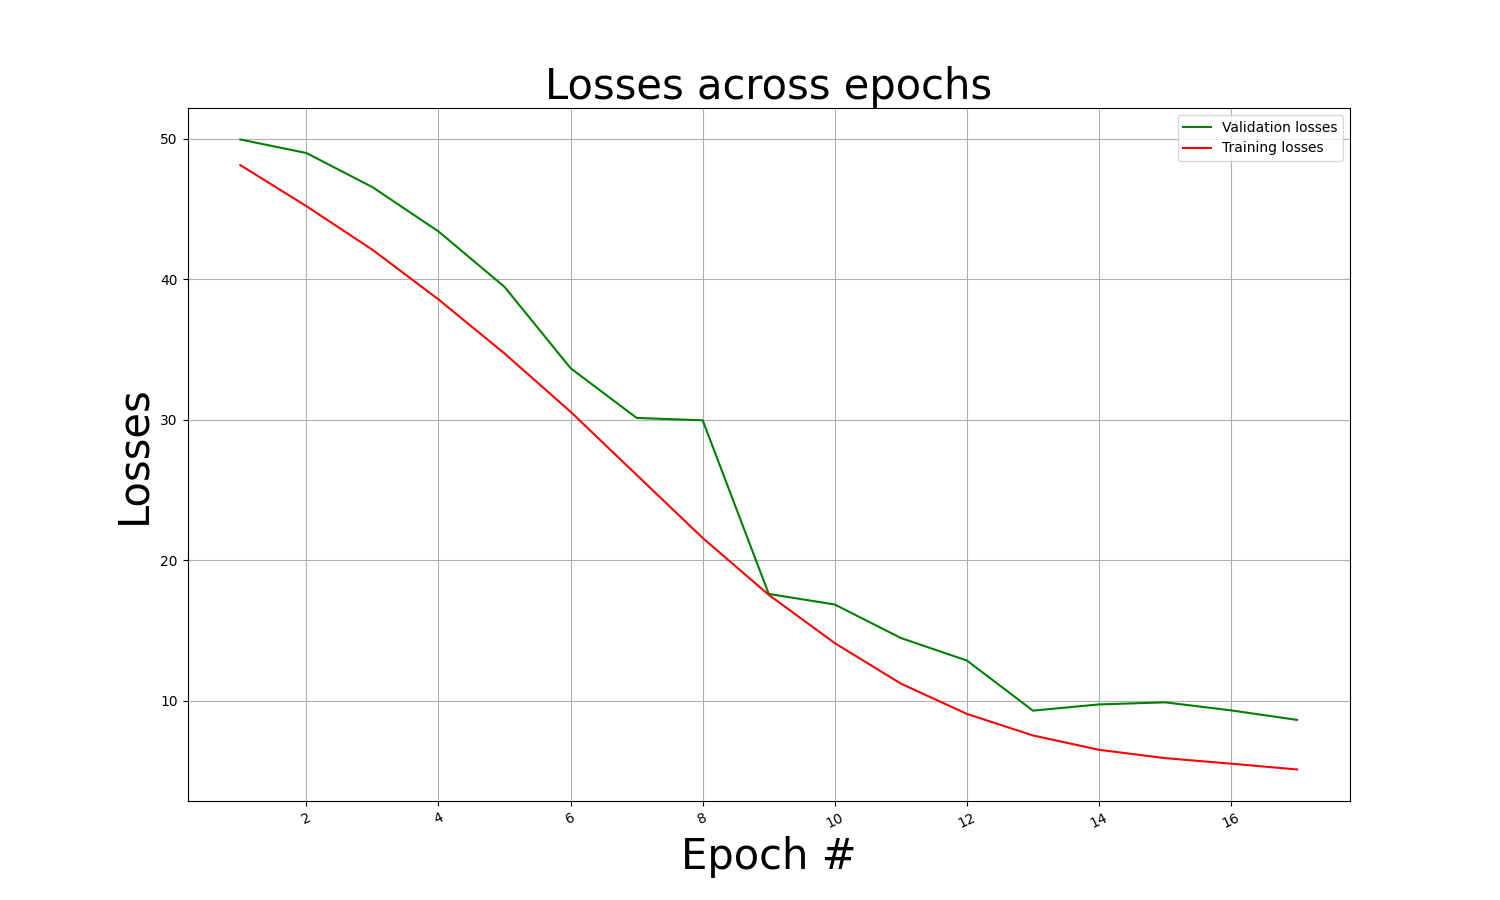
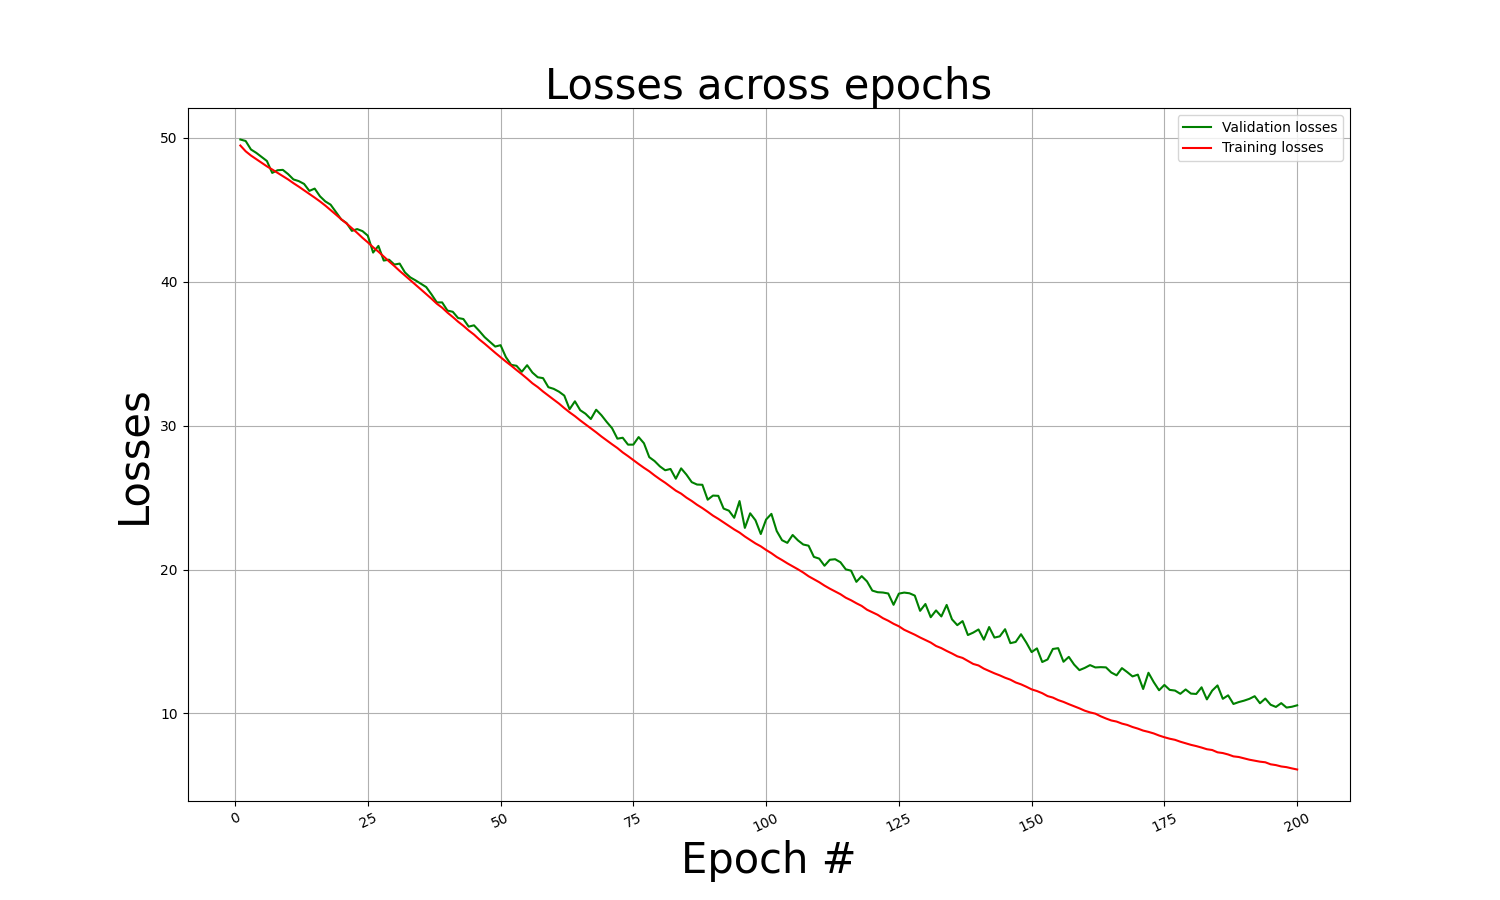
There seems to be an issue with how the images are fed to the model during inferencee. Implemented manual fix for now but working on improving it

diff --git a/scripts/mpc_trials/MultiAgentModel.py b/scripts/mpc_trials/MultiAgentModel.py
@@ -61,8 +61,8 @@ class MultiAgentMpc():
         self.frequency = 10
 
         # Gelsight devices
-        self.dev1 = gsdevice.Camera("Gelsight Mini", 2)
-        self.dev2 = gsdevice.Camera("Gelsight Mini", 4)
+        self.dev1 = gsdevice.Camera("Gelsight Mini", 0)
+        self.dev2 = gsdevice.Camera("Gelsight Mini", 2)
         self.dev1.connect()
         self.dev2.connect()
         # Warm up camera:
@@ -92,7 +92,7 @@ class MultiAgentMpc():
         # _ = self.mpc_layer(_, _, dummy_mpc_var, dummy_mpc_var, dummy_mpc_var, dummy_mpc_var)
 
         # Load weights
-        model_path = os.path.join(os.getcwd(), "v1_checkpoint_epoch_15.pth")
+        model_path = os.path.join(os.getcwd(), "v3_checkpoint_epoch_200.pth")
         checkpoint = torch.load(model_path, map_location=torch.device(self.device), weights_only=True)
         self.nn_encoder.load_state_dict(checkpoint['cnn_encoder_state_dict'])
         self.mpc_layer.load_state_dict(checkpoint['mpc_layer_state_dict'])
@@ -111,6 +111,7 @@ class MultiAgentMpc():
         """
         cv_image_1 = self.dev1.get_raw_image()
         cv_image_2 = self.dev2.get_raw_image()
+        
         if cv_image_1 is None and cv_image_2 is None:
             raise ValueError("Both images weren't obtained")
         if cv_image_1 is None:
@@ -120,9 +121,14 @@ class MultiAgentMpc():
 
         pil_image_1 = Image.fromarray(cv_image_1).convert("RGB")
         pil_image_2 = Image.fromarray(cv_image_2).convert("RGB")
+        pil_image_1.save("image_1.jpg")
+        pil_image_2.save("image_2.jpg")
 
-        self.current_image_1 = self.transform(pil_image_1).to(self.device)
-        self.current_image_2 = self.transform(pil_image_2).to(self.device)
+        pil_image_1 = Image.open("image_1.jpg")#.convert("RGB")
+        pil_image_2 = Image.open("image_2.jpg")#.convert("RGB")
+        # raise KeyError
+        self.current_image_1 = self.transform(pil_image_1).unsqueeze(0).to(self.device)
+        self.current_image_2 = self.transform(pil_image_2).unsqueeze(0).to(self.device)
 
         return self.current_image_1, self.current_image_2
     
@@ -161,15 +167,11 @@ class MultiAgentMpc():
         """
         with torch.cuda.stream(self.stream), torch.no_grad():
             # Prepare for cnn inference
-            image_1 = image_1.unsqueeze(0).to(self.device)
-            image_2 = image_2.unsqueeze(0).to(self.device)
             #start = time.time()
             output_1 = self.nn_encoder(image_1)#.to(self.device) 
             output_2 = self.nn_encoder(image_2)#.to(self.device)
             #end = time.time()
             #print("cnn encoder inference time: ", end - start)
-            print("encodings 1 size: ", output_1.size())
-            print("encodings 2 size: ", output_2.size())
 
             # Prepare for mpc pass
             posi_1 = torch.tensor([posi_1]).to(self.device)

diff --git a/scripts/mpc_trials/runtime_test.py b/scripts/mpc_trials/runtime_test.py
@@ -31,7 +31,7 @@ nn_encoder = ResCNNEncoder(hidden1=CNN_hidden1, hidden2=CNN_hidden2, dropP=dropo
 mpc_layer = MPClayer(nHidden = CNN_embed_dim, eps = eps, nStep = nStep, del_t = del_t).to(device)
 
 # Load weights
-model_path = os.path.join("/home/leo/Documents/Tactile_Sensing_Raptor_Lab/scripts/multi_agent_src/v2_checkpoint_epoch_20.pth")
+model_path = os.path.join("/home/leo/Documents/Tactile_Sensing_Raptor_Lab/scripts/multi_agent_src/v3_checkpoint_epoch_200.pth")
 checkpoint = torch.load(model_path, map_location=device)
 nn_encoder.load_state_dict(checkpoint['cnn_encoder_state_dict'])
 mpc_layer.load_state_dict(checkpoint['mpc_layer_state_dict'])
@@ -40,20 +40,21 @@ mpc_layer.eval()
 print("Loaded model weights.")
 
 # Load images
-image_path_1 = "testing_images/sensor_1_wood.jpg"
-image_path_2 = "testing_images/sensor_2_wood.jpg"
+# 24.69, 24.61
+image_path_1 = "image_1.jpg"
+image_path_2 = "image_2.jpg"
 
-pil_image_1 = Image.open(image_path_1).convert("RGB")
-pil_image_2 = Image.open(image_path_2).convert("RGB")
+pil_image_1 = Image.open(image_path_1)#.convert("RGB")
+pil_image_2 = Image.open(image_path_2)#.convert("RGB")
 
 image_1 = transform(pil_image_1).unsqueeze(0).to(device)
 image_2 = transform(pil_image_2).unsqueeze(0).to(device)
 
 # Dummy gripper state
-posi_1 = torch.tensor([25.0]).to(device)
-vel_1 = torch.tensor([0.6]).to(device)
-posi_2 = torch.tensor([25.0]).to(device)
-vel_2 = torch.tensor([0.6]).to(device)
+posi_1 = torch.tensor([23.0131]).to(device)
+vel_1 = torch.tensor([2.6]).to(device)
+posi_2 = torch.tensor([23.3333]).to(device)
+vel_2 = torch.tensor([2.6]).to(device)
 
 # Run inference
 with torch.no_grad():

diff --git a/scripts/multi_agent_src/multi_agent_training.py b/scripts/multi_agent_src/multi_agent_training.py
@@ -16,9 +16,9 @@ res_size = 224
 dropout_p = 0.15
 
 # Training parameters
-epochs = 50
+epochs = 200
 batch_size = 256
-learning_rate = 1e-4
+learning_rate = 1e-5
 eps = 1e-4
 nStep = 15
 del_t = 1/10
@@ -490,7 +490,7 @@ optimizer = torch.optim.Adam(letac_params, lr=learning_rate, weight_decay=1e-4) 
 
 # Load checkpoint if exists
 start_epoch = 0
-checkpoint_path = 'v2_checkpoint_epoch_15.pth'
+checkpoint_path = 'v3_checkpoint_epoch_15.pth'
 if os.path.exists(checkpoint_path):
     checkpoint = torch.load(checkpoint_path)
     cnn_encoder.load_state_dict(checkpoint['cnn_encoder_state_dict'])
@@ -508,9 +508,9 @@ for epoch in range(start_epoch, epochs):
         training_loss = train([cnn_encoder, MPC_layer], device, train_loader, optimizer, epoch)
         writer = csv.writer(f)
         writer.writerow([epoch+1, valid_loss, training_loss])
-        # Save checkpoint every 5 epochs
-        if (epoch + 1) % 5 == 0:
-            checkpoint_path = f'./v2_checkpoint_epoch_{epoch+1}.pth'
+        # Save checkpoint every 20 epochs
+        if (epoch + 1) % 20 == 0:
+            checkpoint_path = f'./v3_checkpoint_epoch_{epoch+1}.pth'
             torch.save({
                 'cnn_encoder_state_dict': cnn_encoder.state_dict(),
                 'mpc_layer_state_dict': MPC_layer.state_dict(),

diff --git a/scripts/mpc_trials/multi_agent_functions.py b/scripts/mpc_trials/multi_agent_functions.py
@@ -103,7 +103,7 @@ class MPClayer(nn.Module):
         super(MPClayer, self).__init__()
 
         self.Pq = 5
-        self.Qv = 1 # Increase for quicker convergence
+        self.Qv = 200 # Increase for quicker convergence
         self.Qa = 1 # Increase for quicker convergence
         self.nHidden = nHidden
         self.eps = eps
